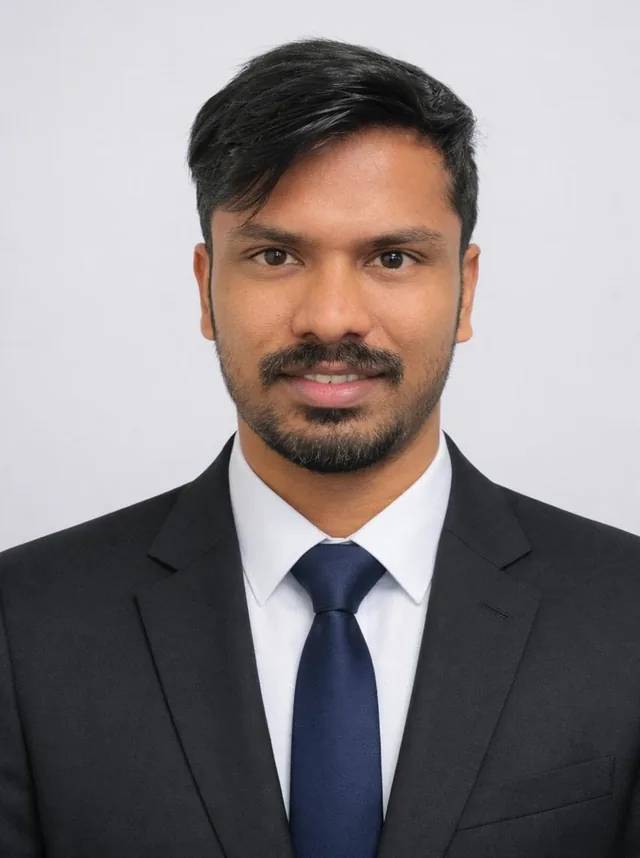
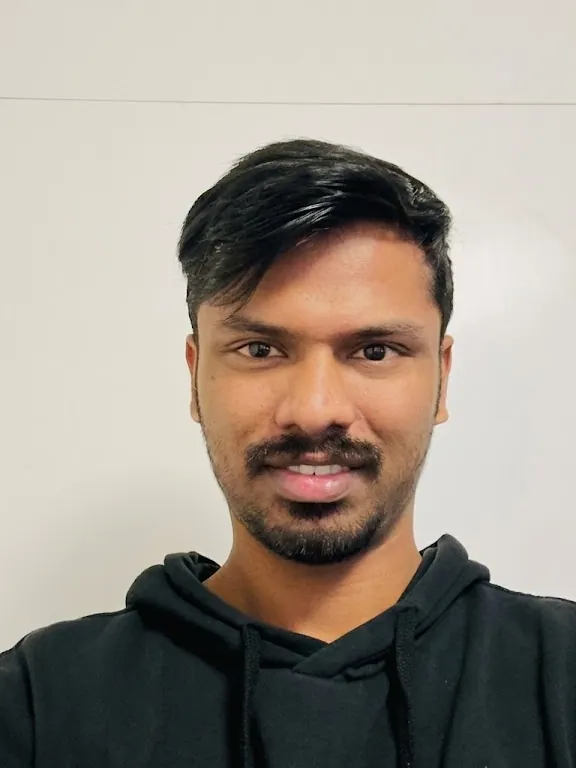
feat: new About portrait (October 2026 photo)

diff --git a/site/index.html b/site/index.html
@@ -139,7 +139,7 @@
       <ul class="dims" id="about-stats" aria-label="Key figures"></ul>
       <div class="about">
         <figure class="about__photo">
-          <img src="assets/img/midhun.webp" width="640" height="858" alt="Portrait of Midhun Rajeev in a dark suit" loading="lazy" decoding="async">
+          <img src="assets/img/midhun.webp" width="576" height="768" alt="Portrait of Midhun Rajeev in a black hoodie" loading="lazy" decoding="async">
           <figcaption>Midhun Rajeev, Landshut</figcaption>
         </figure>
         <div class="about__notes">

diff --git a/scripts/build_media.py b/scripts/build_media.py
@@ -23,6 +23,7 @@ WEBP_QUALITY = 80
 
 # (source, output name, max width, crop box or None)
 IMAGES = [
+    (RAW / "portrait.jpg", "midhun", 576, (0, 150, 576, 918)),  # About portrait, 3:4 (Oct 2026 photo)
     (RAW / "tb3_dashboard.png", "tb3-dashboard", 1280, None),
     (RAW / "tb3_architecture.png", "tb3-architecture", 1400, None),
     (LI / "labviewProteus/Picture1.jpg", "labview-panel", 1246, None),
